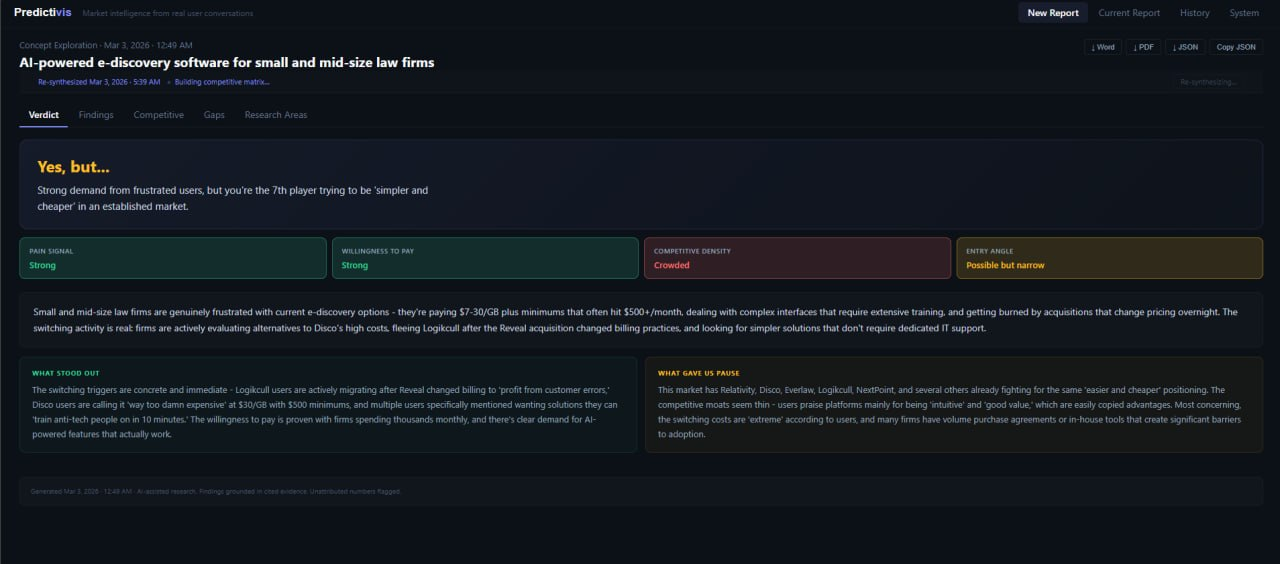
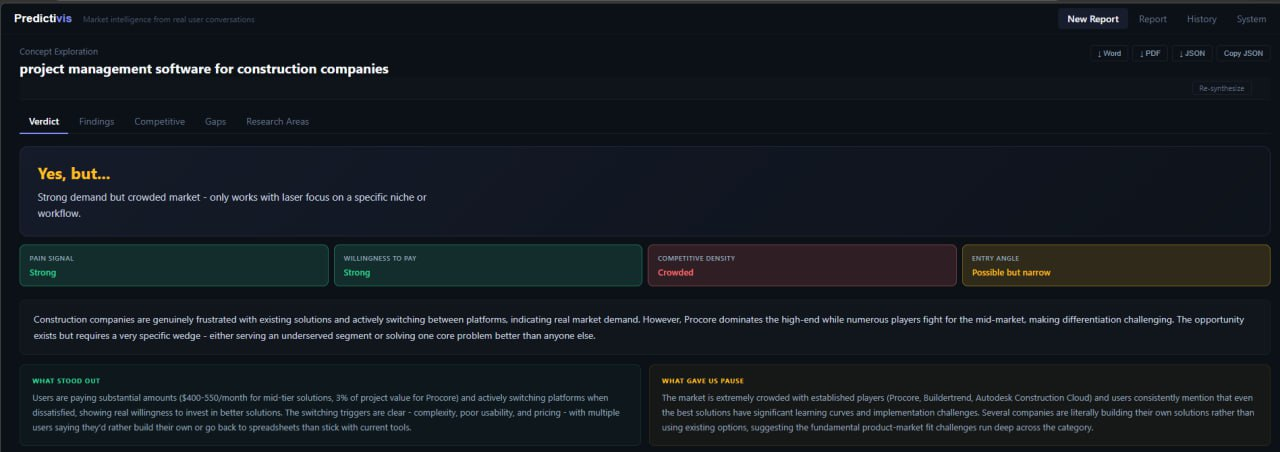
Updated example to construction PM, replaced verdict screenshot

diff --git a/index.html b/index.html
@@ -501,10 +501,10 @@
     <!-- What You Get -->
     <section>
         <h2>A structured report you can base a decision on</h2>
-        <p style="text-align: center; margin-bottom: 2rem;">Here's what a real Predictivis report looks like for "AI-powered e-discovery software for small and mid-size law firms":</p>
+        <p style="text-align: center; margin-bottom: 2rem;">Here's what a real Predictivis report looks like for "project management software for construction companies":</p>
         
         <div style="margin: 3rem 0; text-align: center;">
-            <img src="verdict-screenshot.jpg" alt="Predictivis verdict card showing Yes, but... verdict for AI-powered e-discovery software for small and mid-size law firms" style="max-width: 100%; height: auto; border-radius: 16px; border: 1px solid var(--border);">
+            <img src="verdict-screenshot.jpg" alt="Predictivis verdict card showing Yes, but... verdict for project management software for construction companies" style="max-width: 100%; height: auto; border-radius: 16px; border: 1px solid var(--border);">
         </div>
 
         <div class="report-items">
